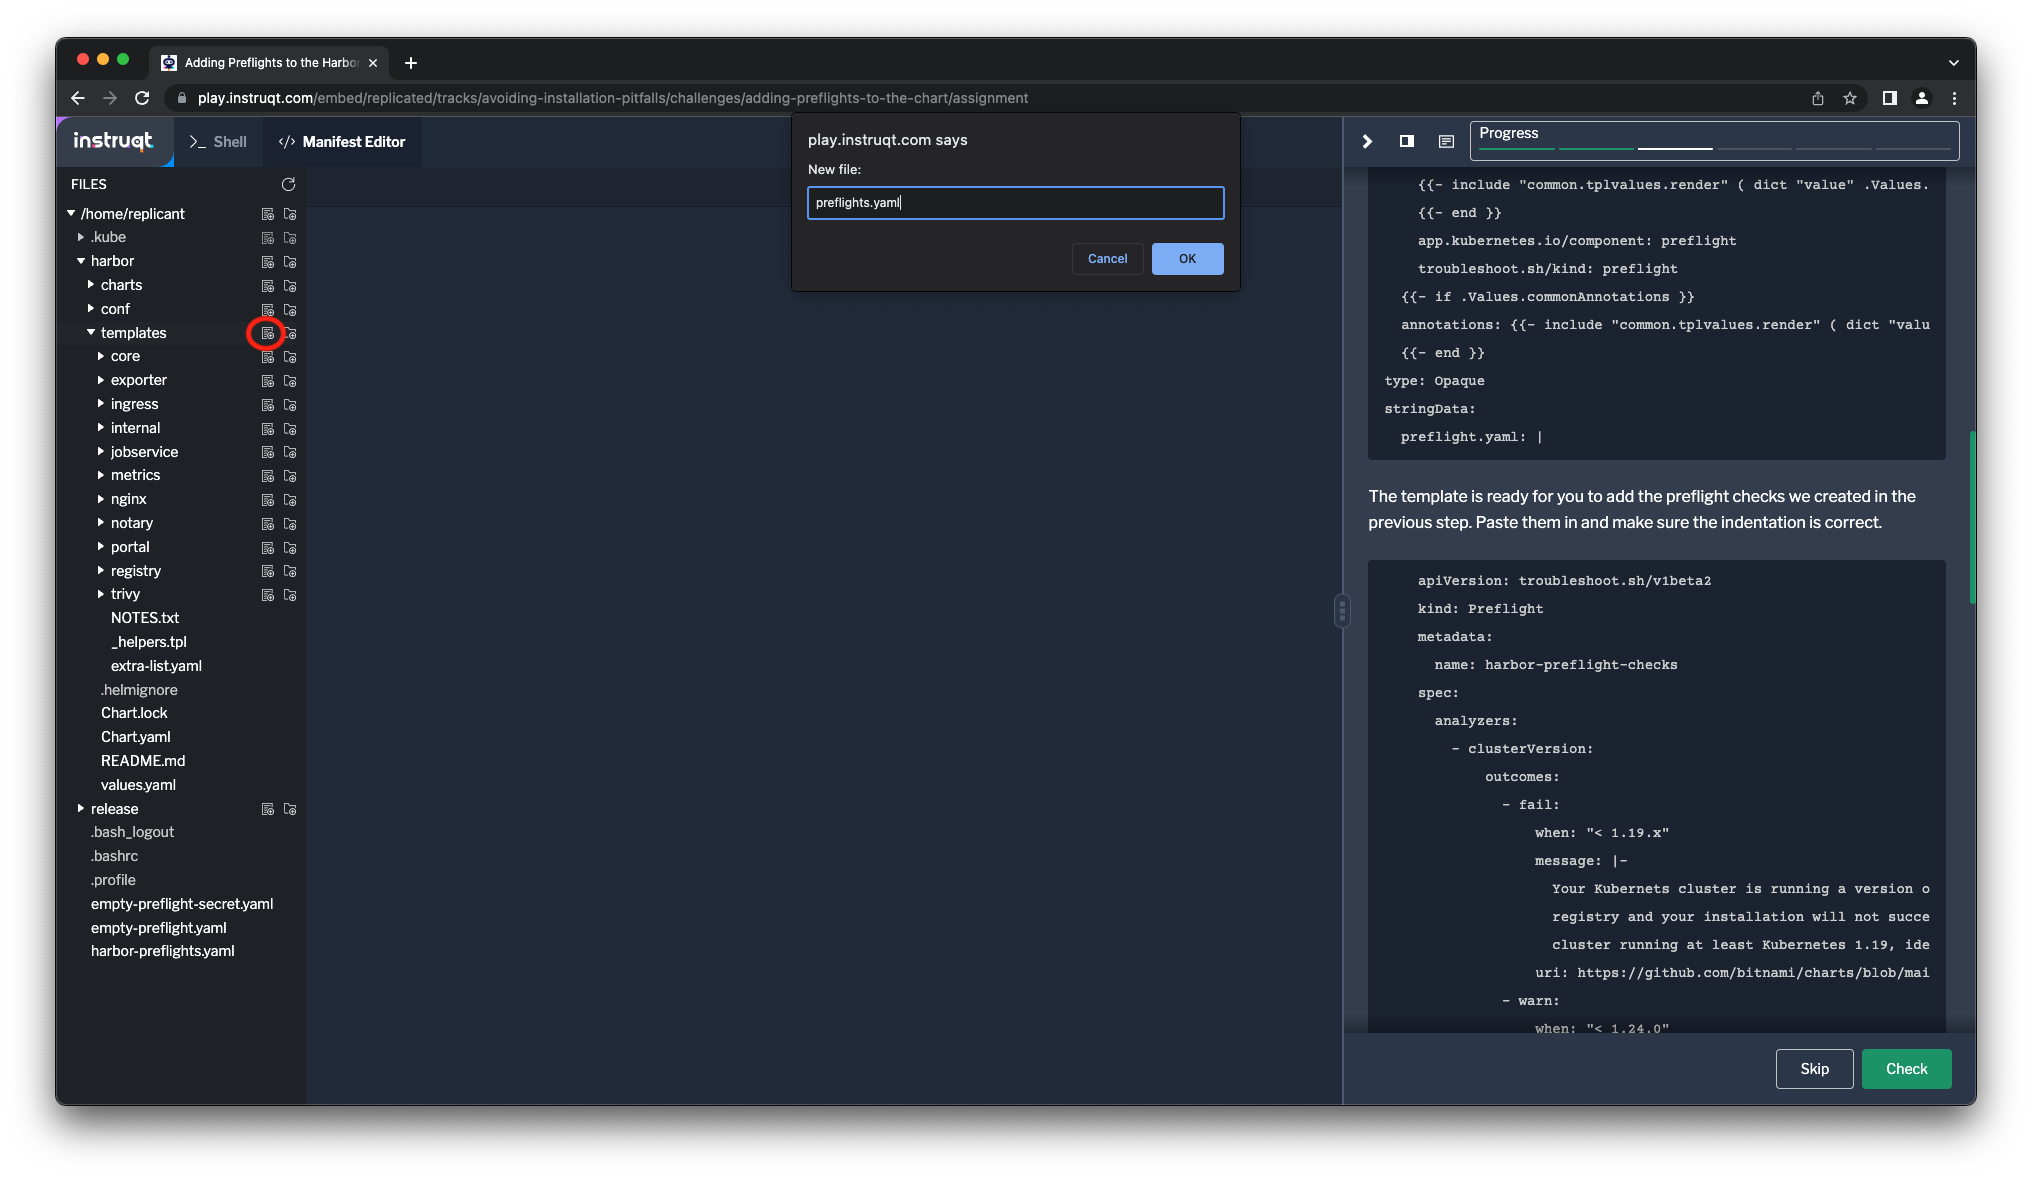
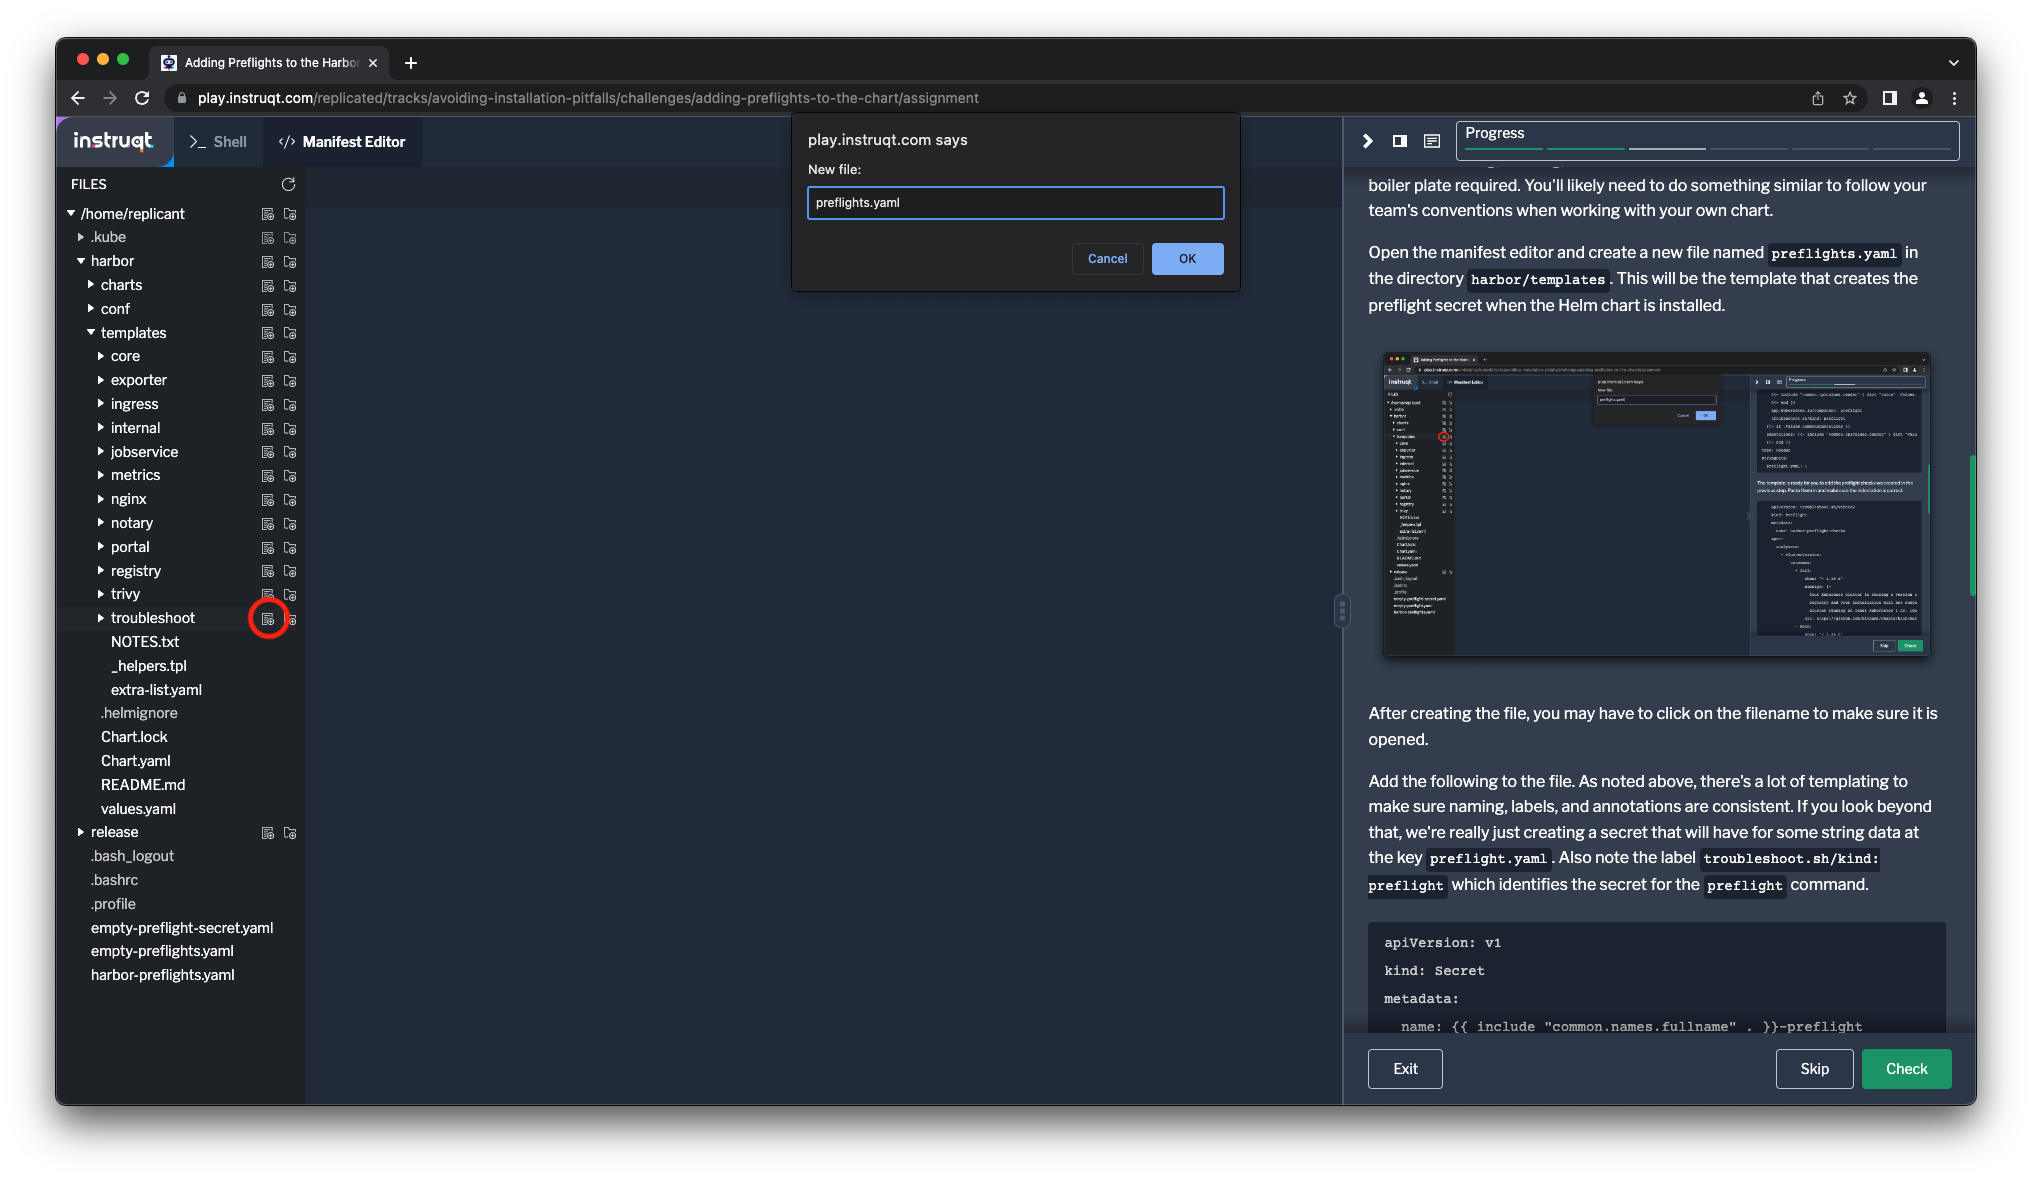
Updates preflight lab to use a troubleshoot directory

diff --git a/instruqt/avoiding-installation-pitfalls/03-adding-preflights-to-the-chart/assignment.md b/instruqt/avoiding-installation-pitfalls/03-adding-preflights-to-the-chart/assignment.md
@@ -99,10 +99,19 @@ conventions, there's a little bit of boiler plate required. You'll
 likely need to do something similar to follow your team's
 conventions when working with your own chart.
 
-Open the manifest editor and create a new file named
-`preflights.yaml` in the directory `harbor/templates`. This will
-be the template that creates the preflight secret when the Helm
-chart is installed.
+Similarly, we're going to follow the conventions for the Harbor chart where
+different components are in their own directories and create a directory to
+store our preflight chart in. We're going to call the directory `troubleshoot`
+since preflight checks are one of two types troubleshooting resources provided
+by the Replicated Platform. Create the directory from the shell.
+
+```
+mkdir harbor/templates/troubleshoot
+```
+
+Open the manifest editor and create a new file named `preflights.yaml` in the
+directory `harbor/templates/troubleshoot`. This will be the template that
+creates the preflight secret when the Helm chart is installed.
 
 ![Creating the Preflights Template](../assets/creating-the-preflights-template.png)
 
@@ -126,7 +135,7 @@ metadata:
     {{- if .Values.commonLabels }}
     {{- include "common.tplvalues.render" ( dict "value" .Values.commonLabels "context" $ ) | nindent 4 }}
     {{- end }}
-    app.kubernetes.io/component: preflight
+    app.kubernetes.io/component: troubleshoot
     troubleshoot.sh/kind: preflight
   {{- if .Values.commonAnnotations }}
   annotations: {{- include "common.tplvalues.render" ( dict "value" .Values.commonAnnotations "context" $ ) | nindent 4 }}
